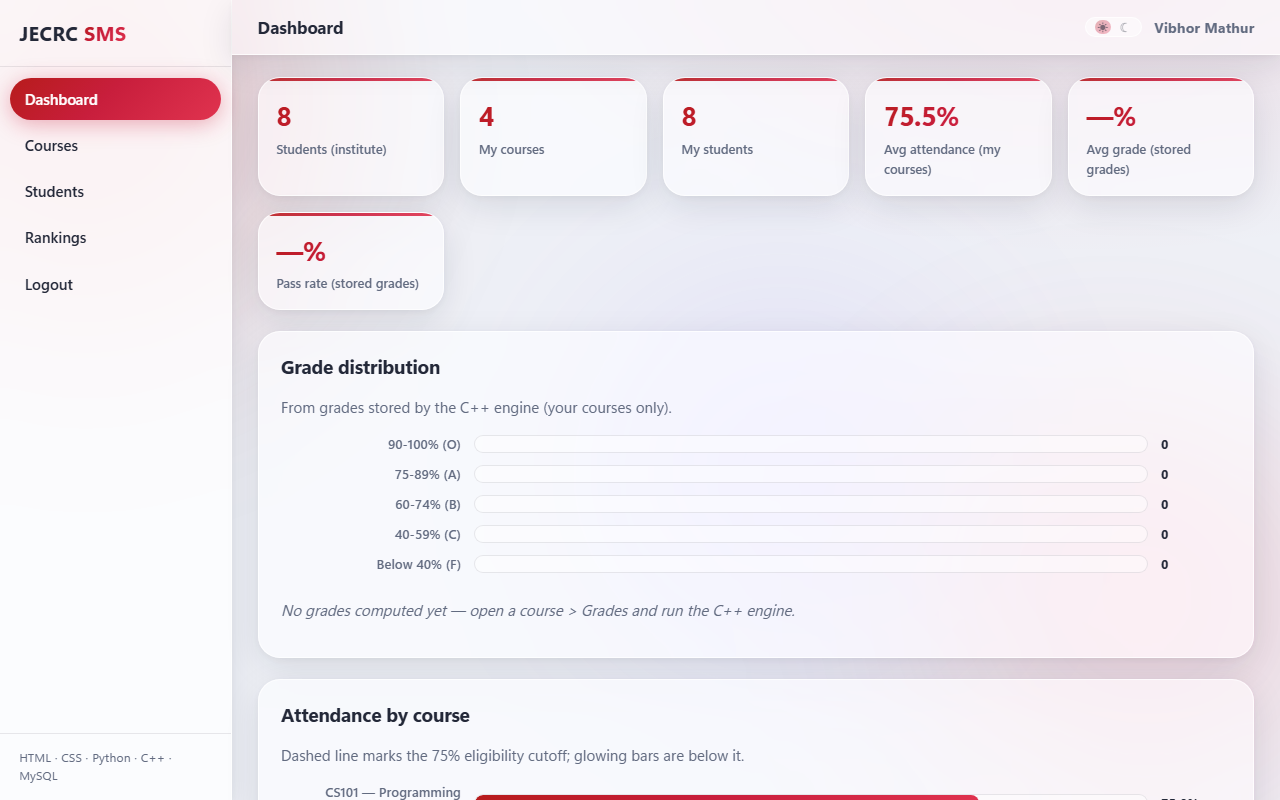
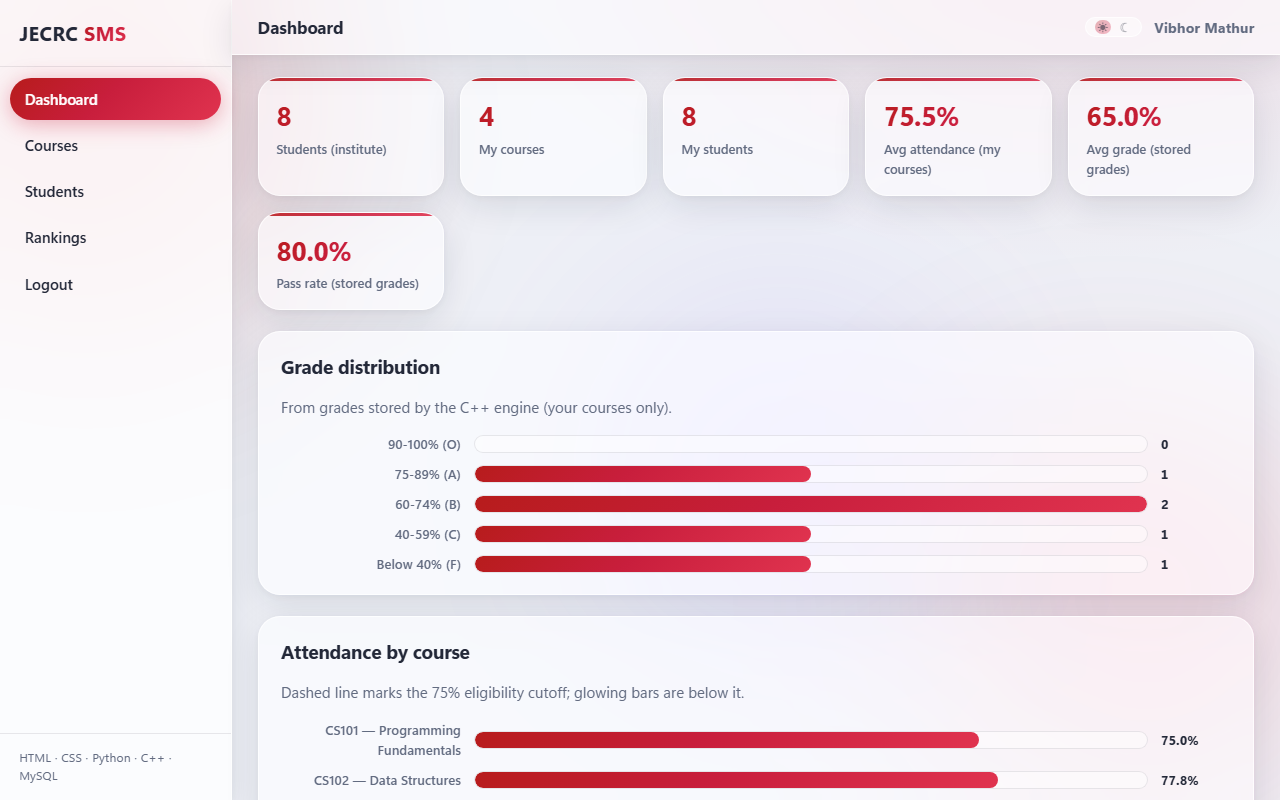
fix: uniform rank badges replace emoji medals on rankings pages
Emoji medals (platform-dependent size/color) sat misaligned next to
plain gradient digits. Every rank now renders as the same pill chip:
gold/silver/bronze gradients for the podium, quiet neutral for the
rest — identical geometry in both themes (verified 24px uniform).
README rankings screenshot refreshed.

🤖 Generated with Codebuff

diff --git a/frontend/static/css/style.css b/frontend/static/css/style.css
@@ -475,8 +475,26 @@ body:has(#theme-toggle:checked) .toggle-ui .glyph-moon { opacity: 1; transform: 
   vertical-align: top;
 }
 td.actions { text-align: right; white-space: nowrap; }
-td.rank-cell { font-weight: 800; font-size: 1.05rem; }
-td.rank-cell { background: var(--grad-accent); -webkit-background-clip: text; background-clip: text; color: transparent; }
+td.rank-cell { white-space: nowrap; }
+/* Rank badge: one shape for every row; podium colors for the top three.
+   Fixed metal gradients (not theme tokens) so gold/silver/bronze read
+   identically in light and dark. */
+.rank-chip {
+  display: inline-flex;
+  align-items: center;
+  justify-content: center;
+  min-width: 2rem;
+  height: 1.55rem;
+  padding: 0 .5rem;
+  border-radius: 999px;
+  font-size: .8rem;
+  font-weight: 800;
+  border: 1px solid transparent;
+}
+.rank-chip.rank-1 { background: linear-gradient(135deg, #ffd76a, #e8a213); color: #4a3403; box-shadow: 0 2px 8px rgba(232, 162, 19, .35); }
+.rank-chip.rank-2 { background: linear-gradient(135deg, #f2f5fa, #b9c2cf); color: #333c4e; box-shadow: 0 2px 8px rgba(150, 160, 180, .35); }
+.rank-chip.rank-3 { background: linear-gradient(135deg, #edb27f, #c06b32); color: #47210a; box-shadow: 0 2px 8px rgba(192, 107, 50, .35); }
+.rank-chip.rank-n { background: var(--glass-inner); color: var(--text-soft); border-color: var(--glass-border); }
 
 /* ---------- forms ---------- */
 .field { display: flex; flex-direction: column; gap: .3rem; margin-bottom: .95rem; }

diff --git a/backend/routes/analytics_routes.py b/backend/routes/analytics_routes.py
@@ -148,18 +148,20 @@ def _grade_rows_html(rows):
 
 
 def _rank_rows_html(rows):
-    """Rank table rows; medals decorate the top three."""
+    """Rank table rows; podium ranks get gold/silver/bronze chips."""
     if not rows:
         return '<tr><td colspan="5" class="empty">No ranking data.</td></tr>'
     parts = []
     for i, r in enumerate(rows):
         # Competition ranking comes from C++: equal percentages share a
-        # rank and the next rank SKIPS (1,2,2,4) — the medal map just
-        # decorates the top three.
-        medal = {1: "🥇", 2: "🥈", 3: "🥉"}.get(r["rank"], str(r["rank"]))
+        # rank and the next rank SKIPS (1,2,2,4). One uniform badge shape
+        # for every row — podium colors for the top three, quiet neutral
+        # for the rest. (Emoji medals rendered at platform-dependent
+        # sizes and sat misaligned next to plain digits.)
+        chip = {1: "rank-1", 2: "rank-2", 3: "rank-3"}.get(r["rank"], "rank-n")
         parts.append(
             f"<tr style=\"--i:{i}\">"
-            f"<td class=\"rank-cell\">{medal}</td>"
+            f"<td class=\"rank-cell\"><span class=\"rank-chip {chip}\">{r['rank']}</span></td>"
             f"<td>{template.esc(r['roll_number'])}</td>"
             f"<td><a href=\"/students/{r['student_id']}\">{template.esc(r['name'])}</a></td>"
             f"<td>{template.esc(r['section_name'])}</td>"

diff --git a/docs/INTERVIEW_PREP.md b/docs/INTERVIEW_PREP.md
@@ -188,7 +188,7 @@ Token comparison for passwords uses constant-time `hmac.compare_digest`.
    update; Ishita shows "Fail" at 39.25%.
 4. Attendance → mark someone absent → eligibility summary updates; Kunal at
    exactly 75.0% stays "Eligible" (boundary).
-5. Rankings → per-section ordering, medal for top 3.
+5. Rankings → per-section ordering, podium-colored badge for top 3.
 6. Logout → login as `sharma` → she sees only CS104; open vibhor's student →
    view-only note, no edit/delete; try `/students/6/edit` → 403 page.
 
